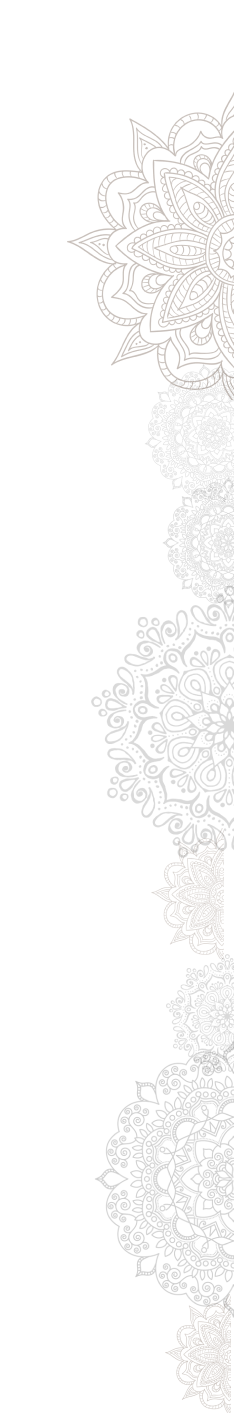
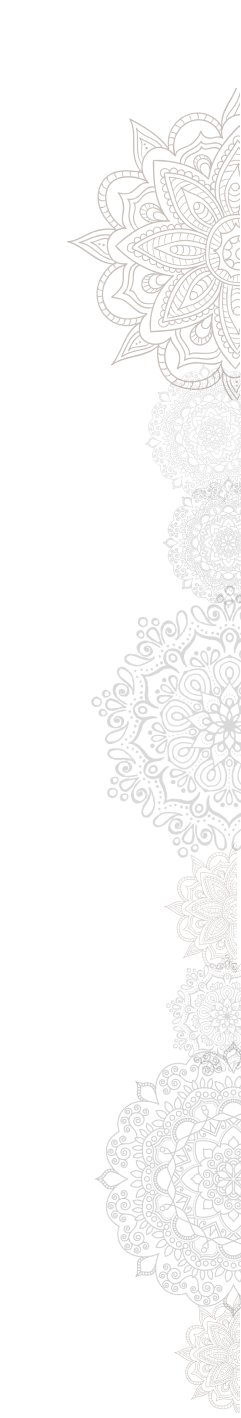
Cambio mandalas

diff --git a/src/components/about/About.jsx b/src/components/about/About.jsx
@@ -3,12 +3,17 @@ import "./About.css";
 import clip from "../../assets/clip.png";
 import mandala_left from "../../assets/mandalas-left.png";
 import mandala_right from "../../assets/mandalas-right.png";
+import mandala_mobile_left from "../../assets/mandalas-mobile-left.png"
+import mandala_mobile_right from "../../assets/mandalas-mobile-right.png"
 
 const About = () => {
   return (
     <section className="about-container" id="about">
-      <div>
-        <img src={mandala_left} alt="decoration" className="about-mandala" />
+      <div className="mandala-desktop">
+        <img src={mandala_left} alt="decoration" className="about-mandala mandala-desktop" />
+      </div>
+      <div className="mandala-mobile">
+        <img src={mandala_mobile_left} alt="decoration" className="about-mandala" />
       </div>
       <div className="about-content">
         <article>
@@ -63,8 +68,11 @@ const About = () => {
           </p>
         </article>
       </div>
-      <div>
+      <div className="mandala-desktop">
         <img src={mandala_right} alt="decoration" className="about-mandala" />
+      </div>
+      <div className="mandala-mobile">
+        <img src={mandala_mobile_right} alt="decoration" className="about-mandala" />
       </div>
     </section>
   );

diff --git a/src/components/about/About.css b/src/components/about/About.css
@@ -36,16 +36,33 @@
   font-size: larger;
 }
 
+.mandala-mobile{
+  display: none;
+}
+
+
 @media (max-width: 1012px) {
   .about-content article p {
     width: 100%;
   }
 }
 
-@media (max-width: 768px) {
-  .about-mandala {
-    width: 100px;
+@media (max-width: 820px) {
+
+ .mandala-desktop{
+    display: none;
   }
+
+  .mandala-mobile{
+    display: inline;
+  }
+
+}
+
+
+@media (max-width: 768px) {
+
+ 
 
   .about-container {
     align-items: center;
